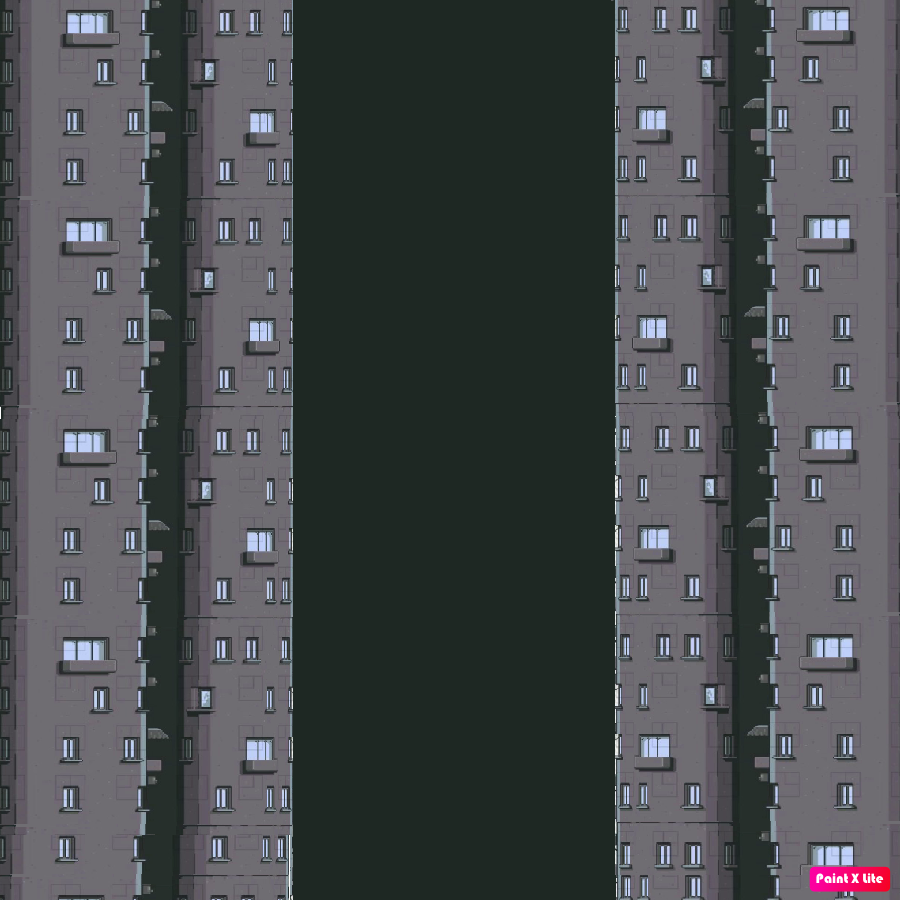
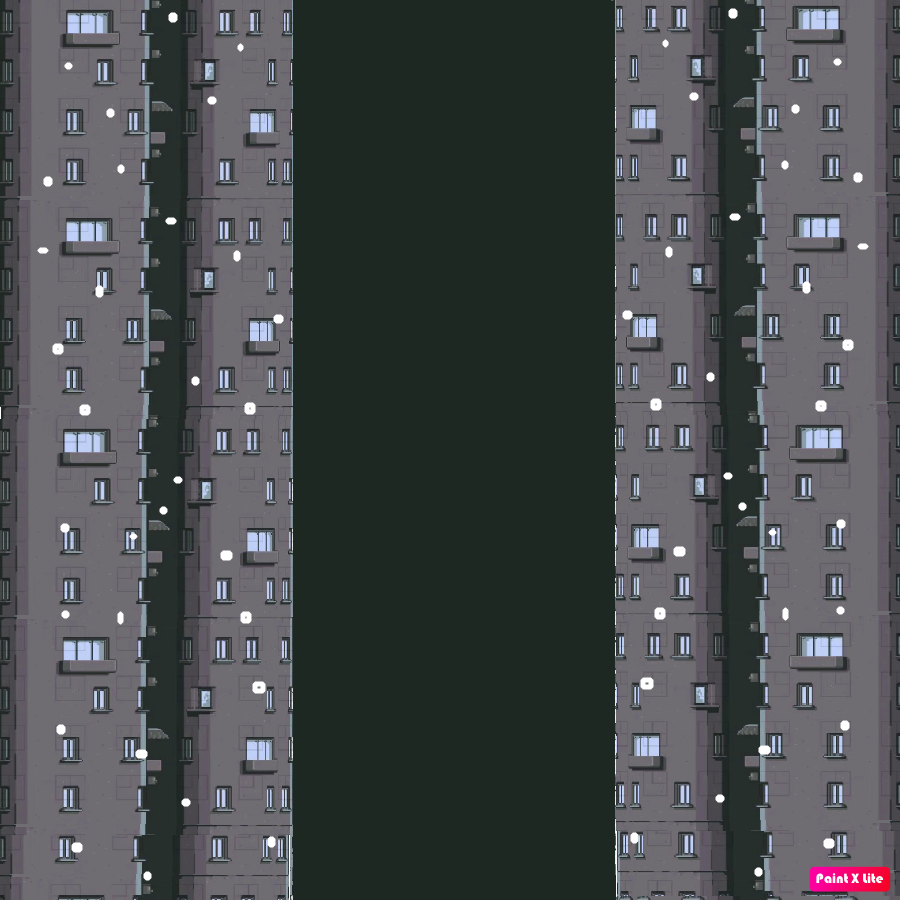
changed obstacles

diff --git a/game.py b/game.py
@@ -14,14 +14,14 @@ bg = pygame.image.load('bg.jpeg')
 bg_2 =pygame.image.load('bg.jpeg') 
 
 
-
 box = Player()
 mov_sprite = pygame.sprite.Group()
 mov_sprite.add(box)
 obs_sprite = pygame.sprite.Group()
 
+
 spawn_obst = pygame.USEREVENT
-pygame.time.set_timer(spawn_obst,2500)
+pygame.time.set_timer(spawn_obst,800)
 
 
 x = 0
@@ -32,109 +32,120 @@ box_mov = 0
 right_mov = 0
 direction = 'right'
 bg_mov = 5
-box_mov = 0
 obs_mov = 5
+Active = False
 
 while True:
+    if Active:
+        if pygame.sprite.spritecollide(box, obs_sprite, True):
+            Active = False
+            obs_sprite.empty()
+        for event in pygame.event.get():
+            
+            if event.type == pygame.QUIT:
+                pygame.quit()
+                sys.exit()
+
+            if event.type == spawn_obst:
+                met = obs()
+                obs_sprite.add(met)
+
+
+
+            if event.type == pygame.KEYDOWN:
+                if event.key == pygame.K_LCTRL:
+                    if box.rect.centerx < 330 or box.rect.centerx > 570:
+                        if box.rect.centerx < 330 :
+                            box.rect.centerx = 300
+                            y1  -= 2*bg_mov
+                            y2  -= 2*bg_mov
+                            box_mov = 5
+                            right_mov = 0
+                        if box.rect.centerx > 570:
+                            box.rect.centerx = 600
+                            y1  -= 2*bg_mov
+                            y2  -= 2*bg_mov
+                            box_mov = 5
+                            right_mov = 0
+
+                if event.key == pygame.K_SPACE:
+                    box_mov = -3
+                    if direction == 'left':
+                        right_mov += -3
+                    elif direction == 'right':
+                        right_mov += 3
+                    elif direction == 'up':
+                        box_mov += 3
+
+                    mov_sprite.update(box_mov,right_mov,direction,'space')
+
+
+                if event.key == pygame.K_d:
+                    if direction == 'left':
+                        direction = 'up'
+                    else:
+                        direction = 'right'
+                    mov_sprite.update(box_mov,right_mov,direction,'right')
+
+                if event.key == pygame.K_a:
+                    if direction =='right':
+                        direction = 'up'
+                    else:
+                        direction = 'left'
+                    mov_sprite.update(box_mov,right_mov,direction,'left')
+
+        if box.rect.centery >900:
+            Active = False
+
+            box_mov = -box_mov*0.5
+
+        if box.rect.centerx >= 600 :
+            direction = 'left'
+            box.rect.centerx-=1
+            right_mov = -right_mov*0.8
+            box_mov = box_mov*0.8
+
+        elif box.rect.centerx <= 300:
+            direction ='right'
+            box.rect.centerx+=1
+            right_mov = -right_mov*0.8
+            box_mov = box_mov*0.8
+
+
+        mov_sprite.draw(screen) 
+        obs_sprite.draw(screen)
+
+        for sprite in obs_sprite:
+            if sprite.rect.centery > 900:
+                obs_sprite.remove(sprite)
+
+        mov_sprite.update(box_mov,right_mov,direction)
+        obs_sprite.update(obs_mov)
+       
+    elif not Active:
+        pass
+        #show_menu()
+
+    
     for event in pygame.event.get():
-        if event.type == pygame.QUIT:
-            pygame.quit()
-            sys.exit()
-        if event.type == spawn_obst:
-            met = obs()
-            obs_sprite.add(met)
-
-
-
-        if event.type == pygame.KEYDOWN:
-            if event.key == pygame.K_LCTRL:
-                if box.rect.centerx < 330 or box.rect.centerx > 570:
-                    if box.rect.centerx < 330 :
-                        box.rect.centerx = 300
-                        y1  -= 2*bg_mov
-                        y2  -= 2*bg_mov
-                        box_mov = 5
-                        right_mov = 0
-                    if box.rect.centerx > 570:
-                        box.rect.centerx = 600
-                        y1  -= 2*bg_mov
-                        y2  -= 2*bg_mov
-                        box_mov = 5
-                        right_mov = 0
-
-            if event.key == pygame.K_SPACE:
-                box_mov = -3
-                if direction == 'left':
-                    right_mov += -3
-                elif direction == 'right':
-                    right_mov += 3
-                elif direction == 'up':
-                    box_mov += 3
-
-                mov_sprite.update(box_mov,right_mov,direction,'space')
-
-        if event.type == pygame.KEYDOWN:
-            if event.key == pygame.K_d:
-                if direction == 'left':
-                    direction = 'up'
-                else:
-                    direction = 'right'
-                mov_sprite.update(box_mov,right_mov,direction,'right')
-
-        if event.type == pygame.KEYDOWN:
-            if event.key == pygame.K_a:
-                if direction =='right':
-                    direction = 'up'
-                else:
-                    direction = 'left'
-                mov_sprite.update(box_mov,right_mov,direction,'left')
-
-        
-    if box.rect.centery > 800:
-        if right_mov > 0:
-            right_mov = right_mov*0.5
-        elif right_mov < 0:
-            right_mov = right_mov*0.5 
-
-        
-        box_mov = -box_mov*0.5
-
-
-
-    if box.rect.centerx >= 600 :
-        direction = 'left'
-        box.rect.centerx-=1
-        right_mov = -right_mov*0.8
-        box_mov = box_mov*0.8
-
-    elif box.rect.centerx <= 300:
-        direction ='right'
-        box.rect.centerx+=1
-        right_mov = -right_mov*0.8
-        box_mov = box_mov*0.8
-
+            if event.type == pygame.QUIT:
+                pygame.quit()
+                sys.exit()
+            if event.type == pygame.KEYDOWN:
+                if event.key == pygame.K_TAB:
+                    obs_sprite.empty()
+                    box.rect.center = (450,450)
+                    Active = True
     box_mov +=grav
 
     y1 +=bg_mov
     y2 += bg_mov
     if y1 >900 :
-       y1 = 0
-       y2 = -900
-
+        y1 = 0
+        y2 = -900
     pygame.display.update()
-
     screen.blit(bg,(x,y1))
-    screen.blit(bg_2,(x,y2))
-
-    mov_sprite.draw(screen) 
-    obs_sprite.draw(screen)
-
-    for sprite in obs_sprite:
-        if sprite.rect.centery > 700:
-            obs_sprite.remove(sprite)
-
-    mov_sprite.update(box_mov,right_mov,direction)
-    obs_sprite.update(obs_mov)
+    screen.blit(bg_2,(x,y2)) 
     clock.tick(200)
-
+    
 

diff --git a/customSprite.py b/customSprite.py
@@ -14,18 +14,19 @@ class Player(pygame.sprite.Sprite):
         self.rect.centerx +=right_mov
         if movement == 'space':
             self.rect.centery-=5
+     
 
 class obs(pygame.sprite.Sprite):
     def __init__(self):
         pygame.sprite.Sprite.__init__(self)
         i = random.randint(1,7)
-        self.image = pygame.Surface((50,50))
-        self.image = pygame.image.load(str(i)+'.png')
+        self.image = pygame.Surface((7,7))
+        self.image.fill((255,255,255))
         self.rect = self.image.get_rect()
         self. image = pygame.transform.rotate(self.image,random.randint(-180,180))
         self.rect.center = (random.randint(310,590),-5)
-    #def remove(self,group):
-    #    if self.rect.centery >900:
-    #        group.remove(self)
+    
+
+    
     def update(self,grav):
         self.rect.centery +=grav
